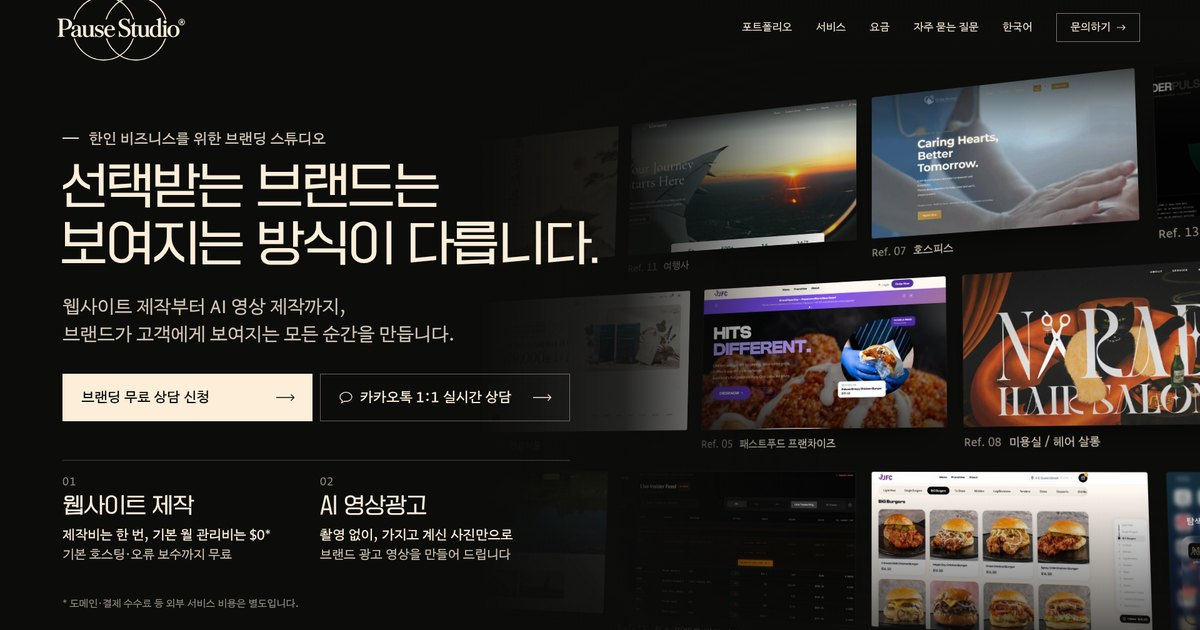
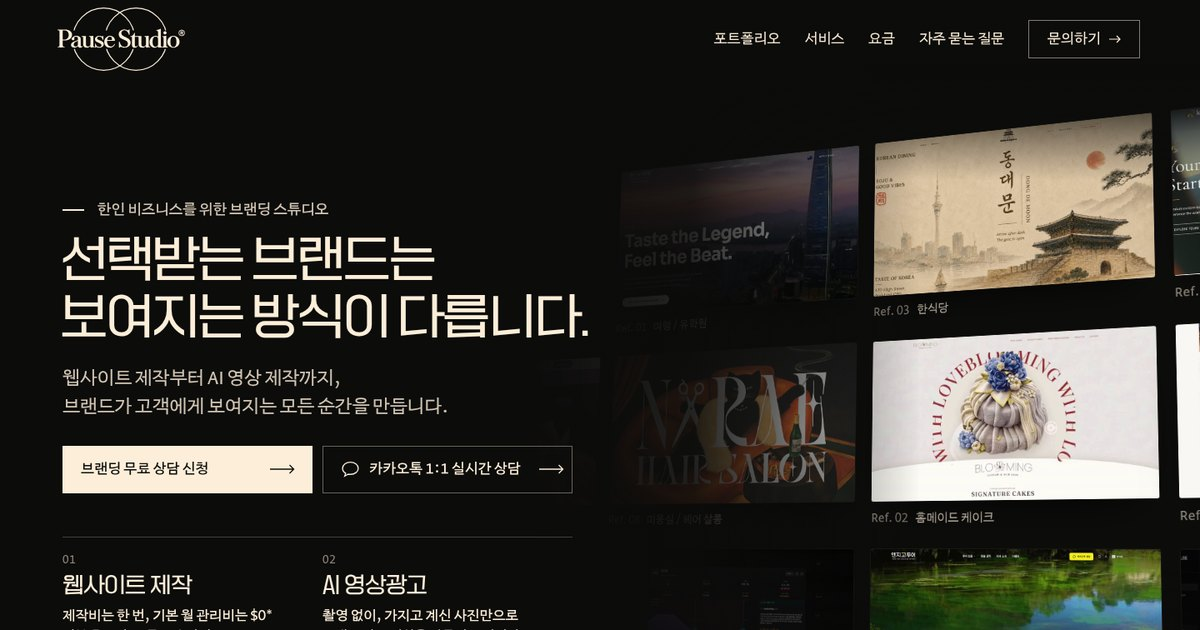
실제 산돌 서체 미리보기(PC·모바일 전체 페이지), 공유 이미지 교체
- docs/preview: PC 1440 첫 화면·전체 5조각, 모바일 390(2배) 첫 화면·전체 3장
- preview.cjs: 글자 칸 line-height 0(묶음별 서체 높이 차이에도 기준선 일치), 모든 패스를 불투명으로 찍어 차이만 합성
- og.jpg: 실제 서체로 그린 첫 화면
- STATE: 검증 결과(점검 79/79, 접근성 위반 0) 기록

Claude-Session: https://claude.ai/code/session_01GweQDuTCduZ8GdRrypzcWU

diff --git a/site/scripts/media.py b/site/scripts/media.py
@@ -137,13 +137,12 @@ def brand():
     shutil.copyfile(ROOT / 'content/assets/other/kakao-qr_from-repo-base64_233x236.png', PUB / 'media/kakao-qr.png')
 
 
-def og(src=ROOT / 'drafts/v31/out/pc.png'):
-    """공유 미리보기 1200×630 — 승인된 히어로 화면(산돌 서체로 조판한 정지 화면)"""
+def og(src=ROOT / 'docs/preview/pc-1440-first-screen.jpg'):
+    """공유 미리보기 1200×630 — 실제 산돌 서체로 그린 첫 화면(tests/preview.cjs 결과)의 위쪽"""
     print('공유 미리보기 이미지', src.relative_to(ROOT))
     im = rgb(Image.open(src))
     h = round(im.width * 630 / 1200)
-    y = (im.height - h) // 2
-    im.crop((0, y, im.width, y + h)).resize((1200, 630), Image.LANCZOS).save(PUB / 'og.jpg', 'JPEG', quality=86, optimize=True, progressive=True)
+    im.crop((0, 0, im.width, h)).resize((1200, 630), Image.LANCZOS).save(PUB / 'og.jpg', 'JPEG', quality=86, optimize=True, progressive=True)
 
 
 if __name__ == '__main__':

diff --git a/STATE.md b/STATE.md
@@ -100,3 +100,5 @@
 - 제작 진행(2026-10-08): `site/` — Vite+TS(프레임워크 없음) + Express(`/api/contact`: SMTP → FormSubmit, 성공 확인 시에만 접수 완료). 문구 `site/src/content/ko.ts`, 본문은 빌드 때 HTML로(`scripts/render.ts`), 미디어 `scripts/media.py`.
 - **사용자: 관리비 섹션의 영수증 프린터 사진(28차 합성) "너무 구림, 안 씀"** → 사이트에서 제거, 그 자리는 사진 없이 글자로 만든 1년치 내역(큰 $0 + 1~12월 $0 + 합계). **규칙: 28차(시네마틱 공간) 자산은 쓰지 않는다.**
 - AI 영상광고 예시 영상: SOOM 물가 사진(19차, 사용자 승인 장면)을 Seedance 2.0 image-to-video 720p 5초로(시작=끝 프레임, 반복 재생 이음새 차이 1.1/255), 약 $1.51. 사용자 확인 필요(마음에 안 들면 사진만 사용).
+- 검증(2026-10-08): 브라우저 점검 79/79(`site/tests/smoke.cjs`), 접근성 axe WCAG 2.1 A·AA 위반 0(`site/tests/a11y.cjs`), 타입 검사·빌드 통과. 실제 산돌 서체 전체 미리보기 `docs/preview/`(`site/tests/preview.cjs` — 글자 폭 고정 + 100자 묶음 패스 합성, 묶음별 서체 높이 차이는 글자 칸 line-height 0으로 해결).
+- 공유 미리보기 이미지(og.jpg)를 실제 서체 첫 화면으로 교체.

diff --git a/docs/preview/README.md b/docs/preview/README.md
@@ -1,0 +1,9 @@
+# 사이트 미리보기 (실제 산돌 서체)
+
+`site/tests/preview.cjs`로 만든 이미지입니다. 운영 사이트에는 산돌구름 웹폰트를 연결해야 이 모습이 됩니다(연결 전에는 시스템 고딕).
+
+- 만든 방법: 산돌 공식 테스터 페이지 안에서만 그림(서체 파일을 내려받거나 저장하지 않음). 테스터는 한 번에 100자까지만 서체를 만들기 때문에, 글자마다 실제 서체의 폭을 재서 칸을 고정하고 100자 묶음마다 찍은 뒤 합쳤습니다.
+- 정지 화면이라 히어로 인트로·작업물 벽 흐름·영상은 움직이지 않습니다(영상은 첫 장면).
+- `pc-1440-first-screen.jpg`: PC 1440×900 첫 화면
+- `pc-1440-full-1~5.jpg`: PC 1440 전체 페이지(위에서부터 5조각)
+- `mobile-390-*.jpg`: 모바일 390(2배 해상도) 전체 페이지
